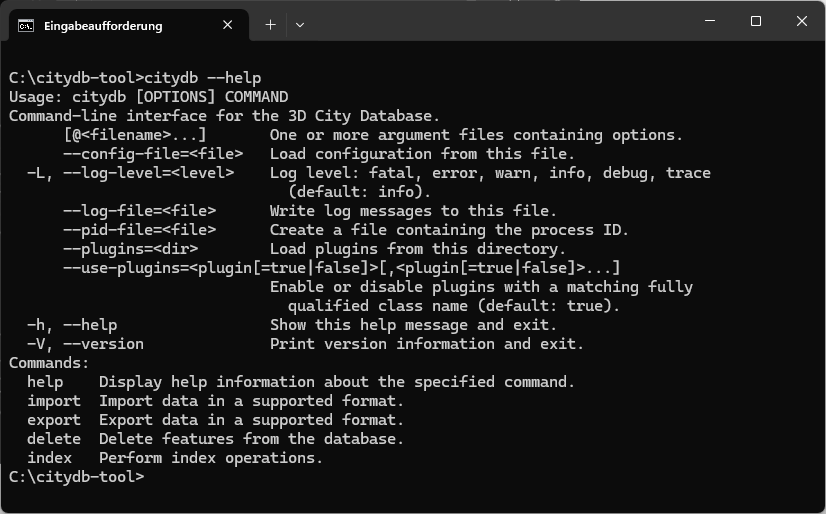
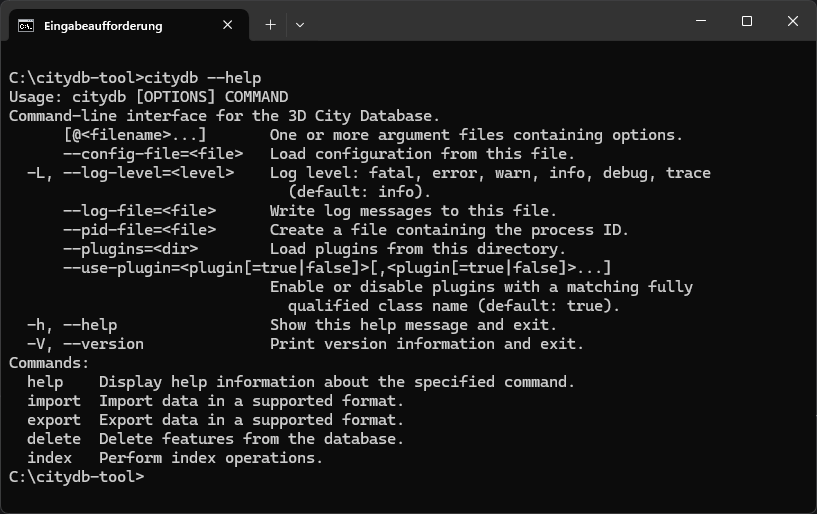
minor tweaks

diff --git a/docs/citydb-tool/database.md b/docs/citydb-tool/database.md
@@ -8,17 +8,15 @@ tags:
 ---
 
 Most citydb-tool commands require a connection to a 3DCityDB `v5` instance. Connection details can be specified via
-[command-line options](#using-command-line-options), an [argument file](#using-argument-files),
-a [JSON configuration file](#using-configuration-files), or [environment variables](#using-environment-variables).
-
+command-line options, argument files, JSON configuration files, or environment variables.
 
 ## Using command-line options
 
 --8<-- "docs/citydb-tool/includes/db-options.md"
 
-The `--db-host` option specifies the network name or IP address of the database server. The name of the 3DCityDB `v5`
-instance must be provided via `--db-name`. The `--db-schema` option defines the database schema to connect to. For
-PostgreSQL, the default schema is `citydb`, but additional schemas can be created using
+Use `--db-host` to specify the network name or IP address of the database server. The `--db-name` option
+defines the name of the 3DCityDB `v5` instance, while `--db-schema` sets the database schema to connect to. For
+PostgreSQL, the default schema is `citydb`. Additional schemas can be created using
 the [database scripts](../first-steps/setup.md#shell-scripts) included in the 3DCityDB `v5` software package.
 
 The username and password for connecting to the 3DCityDB are set with `--db-username` and `--db-password`. You can
@@ -26,16 +24,16 @@ provide the password directly or leave it empty to be prompted for input before 
 after 60 seconds. If this option is omitted, citydb-tool will attempt to connect without a password.
 
 In addition to the standard connection parameters, database-specific properties can be provided through the
-`--db-property` option to configure the Java driver's behavior. These properties should be listed as a comma-separated
-series of `key=value` pairs.
+`--db-property` option to configure the JDBC driver behavior. These properties should be specified as a comma-separated
+list of `property=value` pairs.
 
 The example below shows how to use the database connection options. It includes the PostgreSQL-specific `ssl` parameter to
-establish an SSL connection
+establish an SSL connection.
 
 === "Linux"
 
     ```bash
-    citydb export citygml \
+    ./citydb export citygml \
         -H localhost \
         -d citdb \
         -u citydb_user \
@@ -61,7 +59,7 @@ establish an SSL connection
 
 ## Using argument files
 
-You can store the database connection options in an argument file and reference it in the command using the `@`
+You can also store the database connection options in an argument file and reference it in the command using the `@`
 symbol. The contents of the argument file are automatically expanded into the argument list. For more information on
 using argument files, refer to the section [here](cli.md#argument-files).
 
@@ -163,22 +161,22 @@ citydb export citygml --config-file=/path/to/config.json -o output.gml
 
 ## Using environment variables
 
-You can use environment variables to define database connection details dynamically. This approach is useful for
-automated scripts, CI/CD pipelines, or when credentials should not be hard-coded. It is also ideal for running in Docker
-environments, where environment variables can be easily passed into containers at runtime.
+Environment variables allow for dynamic definition of database connection details. This approach is useful for
+automated scripts, CI/CD pipelines, or when credentials should not be hard-coded. It is also ideal for running
+citydb-tool in Docker environments, where environment variables can be easily passed into containers at runtime.
 
 The following environment variables for defining database connection details are supported by citydb-tool and
 closely align with the command-line options:
 
-| Environment variable | Description                                                          |
-|----------------------|----------------------------------------------------------------------|
-| `CITYDB_HOST`        | Name of the host on which the 3DCityDB is running.                   |
-| `CITYDB_PORT`        | Port of the 3DCityDB server.                                         |
-| `CITYDB_NAME`        | Name of the 3DCityDB database to connect to.                         |
-| `CITYDB_SCHEMA`      | Schema to use when connecting to the 3DCityDB.                       |
-| `CITYDB_USER`        | Username to use when connecting to the 3DCityDB.                     |
-| `CITYDB_PASSWORD`    | Password to use when connecting to the 3DCityDB.                     |
-| `CITYDB_CONN_PROPS`  | Database-specific connection properties provided as key-value pairs. |
+| Environment variable | Description                                                                                         |
+|----------------------|-----------------------------------------------------------------------------------------------------|
+| `CITYDB_HOST`        | Name of the host on which the 3DCityDB is running.                                                  |
+| `CITYDB_PORT`        | Port of the 3DCityDB server.                                                                        |
+| `CITYDB_NAME`        | Name of the 3DCityDB database to connect to.                                                        |
+| `CITYDB_SCHEMA`      | Schema to use when connecting to the 3DCityDB.                                                      |
+| `CITYDB_USER`        | Username to use when connecting to the 3DCityDB.                                                    |
+| `CITYDB_PASSWORD`    | Password to use when connecting to the 3DCityDB.                                                    |
+| `CITYDB_CONN_PROPS`  | Database-specific connection properties provided as comma-separated list of `property=value` pairs. |
 
 The following command demonstrates how to use these environment variables to dynamically specify database connection
 details.
@@ -192,6 +190,7 @@ details.
     export CITYDB_SCHEMA=citydb
     export CITYDB_USER=citydb_user
     export CITYDB_PASSWORD=mySecret
+    export CITYDB_CONN_PROPS=ssl=true
         
     ./citydb export citygml -o output.gml
     ```
@@ -205,6 +204,7 @@ details.
     set CITYDB_SCHEMA=citydb
     set CITYDB_USER=citydb_user
     set CITYDB_PASSWORD=mySecret
+    set CITYDB_CONN_PROPS=ssl=true
     
     citydb export citygml -o output.gml
     ```

diff --git a/docs/citydb-tool/includes/global-options.md b/docs/citydb-tool/includes/global-options.md
@@ -1,11 +1,11 @@
-| Option                                                                                                                                      | Description                                                           | Default value |
-|---------------------------------------------------------------------------------------------------------------------------------------------|-----------------------------------------------------------------------|---------------|
-| `[@<filename>...]`                                                                                                                          | One or more argument files containing options.                        |               |
-| `--config-file=<file>`                                                                                                                      | Load configuration from this file.                                    |               |
-| `-L`, `--log-level=<level>`                                                                                                                 | Log level: `fatal`, `error`, `warn`, `info`, `debug`, `trace`.        | `info`        |
-| `--log-file=<file>`                                                                                                                         | Write log messages to this file.                                      |               |
-| `--pid-file=<file>`                                                                                                                         | Create a file containing the process ID.                              |               |
-| `--plugins=<dir>`                                                                                                                           | Load plugins from this directory.                                     |               |
-| <code>--use-plugins=&lt;plugin&#91;=true&#124;false&#93;&gt;</code><br/><code>&#91;,&lt;plugin&#91;=true&#124;false&#93;&gt;...&#93;</code> | Enable or disable plugins with a matching fully qualified class name. | `true`        |
-| `-h`, `--help`                                                                                                                              | Show this help message and exit.                                      |               |
-| `-V`, `--version`                                                                                                                           | Print version information and exit.                                   |               |
+| Option                                                                                                                                     | Description                                                           | Default value |
+|--------------------------------------------------------------------------------------------------------------------------------------------|-----------------------------------------------------------------------|---------------|
+| `[@<filename>...]`                                                                                                                         | One or more argument files containing options.                        |               |
+| `--config-file=<file>`                                                                                                                     | Load configuration from this file.                                    |               |
+| `-L`, `--log-level=<level>`                                                                                                                | Log level: `fatal`, `error`, `warn`, `info`, `debug`, `trace`.        | `info`        |
+| `--log-file=<file>`                                                                                                                        | Write log messages to this file.                                      |               |
+| `--pid-file=<file>`                                                                                                                        | Create a file containing the process ID.                              |               |
+| `--plugins=<dir>`                                                                                                                          | Load plugins from this directory.                                     |               |
+| <code>--use-plugin=&lt;plugin&#91;=true&#124;false&#93;&gt;</code><br/><code>&#91;,&lt;plugin&#91;=true&#124;false&#93;&gt;...&#93;</code> | Enable or disable plugins with a matching fully qualified class name. | `true`        |
+| `-h`, `--help`                                                                                                                             | Show this help message and exit.                                      |               |
+| `-V`, `--version`                                                                                                                          | Print version information and exit.                                   |               |

diff --git a/docs/citydb-tool/includes/db-options.md b/docs/citydb-tool/includes/db-options.md
@@ -1,9 +1,9 @@
-| Option                                       | Description                                                                  | Default value        |
-|----------------------------------------------|------------------------------------------------------------------------------|----------------------|
-| `-H`, `--db-host=<host>`                     | Name of the host on which the 3DCityDB is running.                           |                      |
-| `-P`, `--db-port=<port>`                     | Port of the 3DCityDB server.                                                 | 5432                 |
-| `-d`, `--db-name=<database>`                 | Name of the 3DCityDB database to connect to.                                 |                      |
-| `-S`, `--db-schema=<schema>`                 | Schema to use when connecting to the 3DCityDB                                | `citydb` or username |
-| `-u`, `--db-username=<user>`                 | Username to use when connecting to the 3DCityDB.                             |                      |
-| `-p`, `--db-password[=<password>]`           | Password to use when connecting to the 3DCityDB. Leave empty to be prompted. |                      |
-| `--db-property=<key=value>[,<key=value>...]` | Database-specific connection properties.                                     |                      |
+| Option                                                 | Description                                                                  | Default value        |
+|--------------------------------------------------------|------------------------------------------------------------------------------|----------------------|
+| `-H`, `--db-host=<host>`                               | Name of the host on which the 3DCityDB is running.                           |                      |
+| `-P`, `--db-port=<port>`                               | Port of the 3DCityDB server.                                                 | 5432                 |
+| `-d`, `--db-name=<database>`                           | Name of the 3DCityDB database to connect to.                                 |                      |
+| `-S`, `--db-schema=<schema>`                           | Schema to use when connecting to the 3DCityDB                                | `citydb` or username |
+| `-u`, `--db-username=<user>`                           | Username to use when connecting to the 3DCityDB.                             |                      |
+| `-p`, `--db-password[=<password>]`                     | Password to use when connecting to the 3DCityDB. Leave empty to be prompted. |                      |
+| `--db-property=<property=value>[,<property=value>...]` | Database-specific connection properties.                                     |                      |

diff --git a/docs/citydb-tool/cli.md b/docs/citydb-tool/cli.md
@@ -116,7 +116,7 @@ citydb-tool will automatically detect and load the plugins from this location, l
 separately in the console. To uninstall a plugin, simply delete its folder from the `plugins` subfolder.
 
 The `--plugins` option allows you to specify a different location for loading plugins. To enable or disable plugins, use
-the `--use-plugins` option followed by the fully qualified Java class name and a value of `true` (enable) or `false` 
+the `--use-plugin` option followed by the fully qualified Java class name and a value of `true` (enable) or `false`
 (disable) (default: `true`). Disabled plugins will not be loaded. Multiple plugins can be specified as a comma-separated
 list as shown below.
 
@@ -125,7 +125,7 @@ list as shown below.
     ```bash
     ./citydb export citygml [...] \
         --plugins=/path/to/my/plugins \
-        --use-plugins=com.example.PluginA=true,com.example.PluginB=false
+        --use-plugin=com.example.PluginA=true,com.example.PluginB=false
     ```
 
 === "Windows"
@@ -133,12 +133,12 @@ list as shown below.
     ```bat
     citydb export citygml [...] ^
         --plugins=/path/to/my/plugins ^
-        --use-plugins=com.example.PluginA=true,com.example.PluginB=false
+        --use-plugin=com.example.PluginA=true,com.example.PluginB=false
     ```
 
 !!! tip
     Refer to the plugin's documentation for details on its functionality, available CLI commands, options, and the fully
-    qualified class name for the `--use-plugins` option. The class name will also be printed to the console when the plugin
+    qualified class name for the `--use-plugin` option. The class name will also be printed to the console when the plugin
     is loaded by citydb-tool.
 
 ### Exit codes
@@ -166,6 +166,16 @@ The following generic examples are all equivalent, assuming `-f` is a short form
 <command> -ab -c --file my-file.txt 
 <command> -abc -f my-file.txt 
 <command> -abcf=my-file.txt 
+```
+
+Multi-value options, such as `--use-plugin`, can accept one or more values. If multiple values are needed, they can either
+be provided as a comma-separated list or by specifying the option multiple times.
+
+The following examples are all valid:
+
+```bash
+citydb --use-plugin=com.example.PluginA,com.example.PluginB=false
+citydb --use-plugin=com.example.PluginA --use-plugin=com.example.PluginB=false
 ```
 
 ### Double dash delimiter

diff --git a/docs/citydb-tool/index.md b/docs/citydb-tool/index.md
@@ -31,8 +31,8 @@ in a shell, `citydb-tool` can be automated, integrated with other software, and 
 
 ## Installing and launching
 
-To get citydb-tool, follow the [download instructions](../download.md#citydb-tool-database-client). Java is required
-to run the software. Please refer to the [system requirements](../first-steps/requirements.md#citydb-tool-database-client) for more details.
+To obtain citydb-tool, follow the [download instructions](../download.md#citydb-tool-database-client). Java is required
+to run the software. For more information, consult the [system requirements](../first-steps/requirements.md#citydb-tool-database-client).
 
 citydb-tool is distributed as a ZIP package and does not require installation. Simply extract the package to a
 directory of your choice. Inside this directory, you will find the `citydb` start script for running the tool.

diff --git a/includes/abbreviations.md b/includes/abbreviations.md
@@ -3,7 +3,9 @@
 *[WFS]: Web Feature Service
 *[CityGML]: OGC City Geography Markup Language
 *[CityJSON]: OGC CityJSON
+*[CQL2]: OGC Common Query Language
 *[CLI]: Command Line Interface
 *[JRE]: Java Runtime Environment
 *[JDK]: Java Development Kit
 *[JVM]: Java Virtual Machine
+*[JDBC]: Java Database Connectivity
